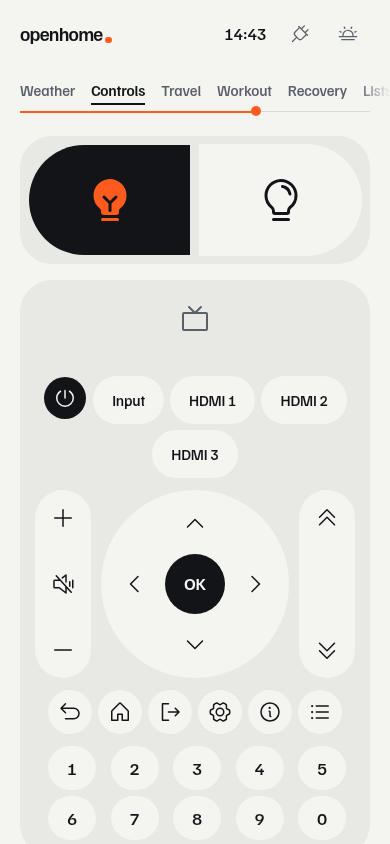
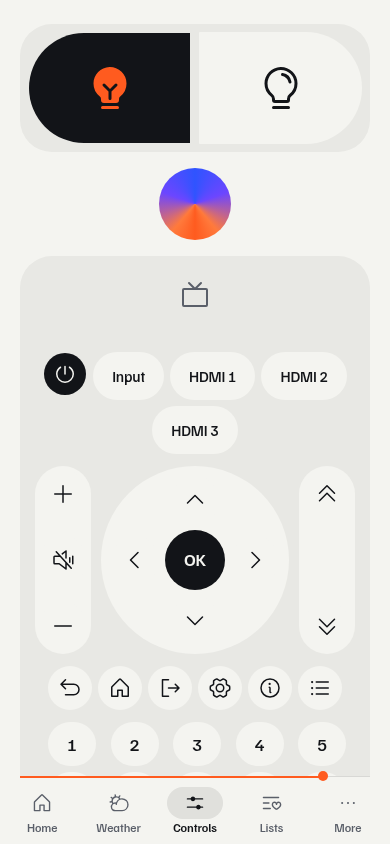
docs(dashboard): capture the LED page and its Controls disc

diff --git a/dashboard/docs/redesign/README.md b/dashboard/docs/redesign/README.md
@@ -5,8 +5,7 @@ synthetic seeds (`api/examples/dashboard_preview/seed/`), the public demo origin
 and travel, drawn photo albums and public TMDB posters. No household data, location or
 credentials. The LED captures mount the production Backlight component in this
 synthetic shell with invented status and interaction replies; they show no real
-device state. The LED desktop image includes the full page; the phone image is
-scrolled to the playground at 390 × 844.
+device state: TV Sync at 62 % with Bedtime Mode 22:30–06:45.
 
 | Page             | Desktop, 1280 × 720                               | Phone, 390 × 844                                |
 | ---------------- | ------------------------------------------------- | ----------------------------------------------- |
